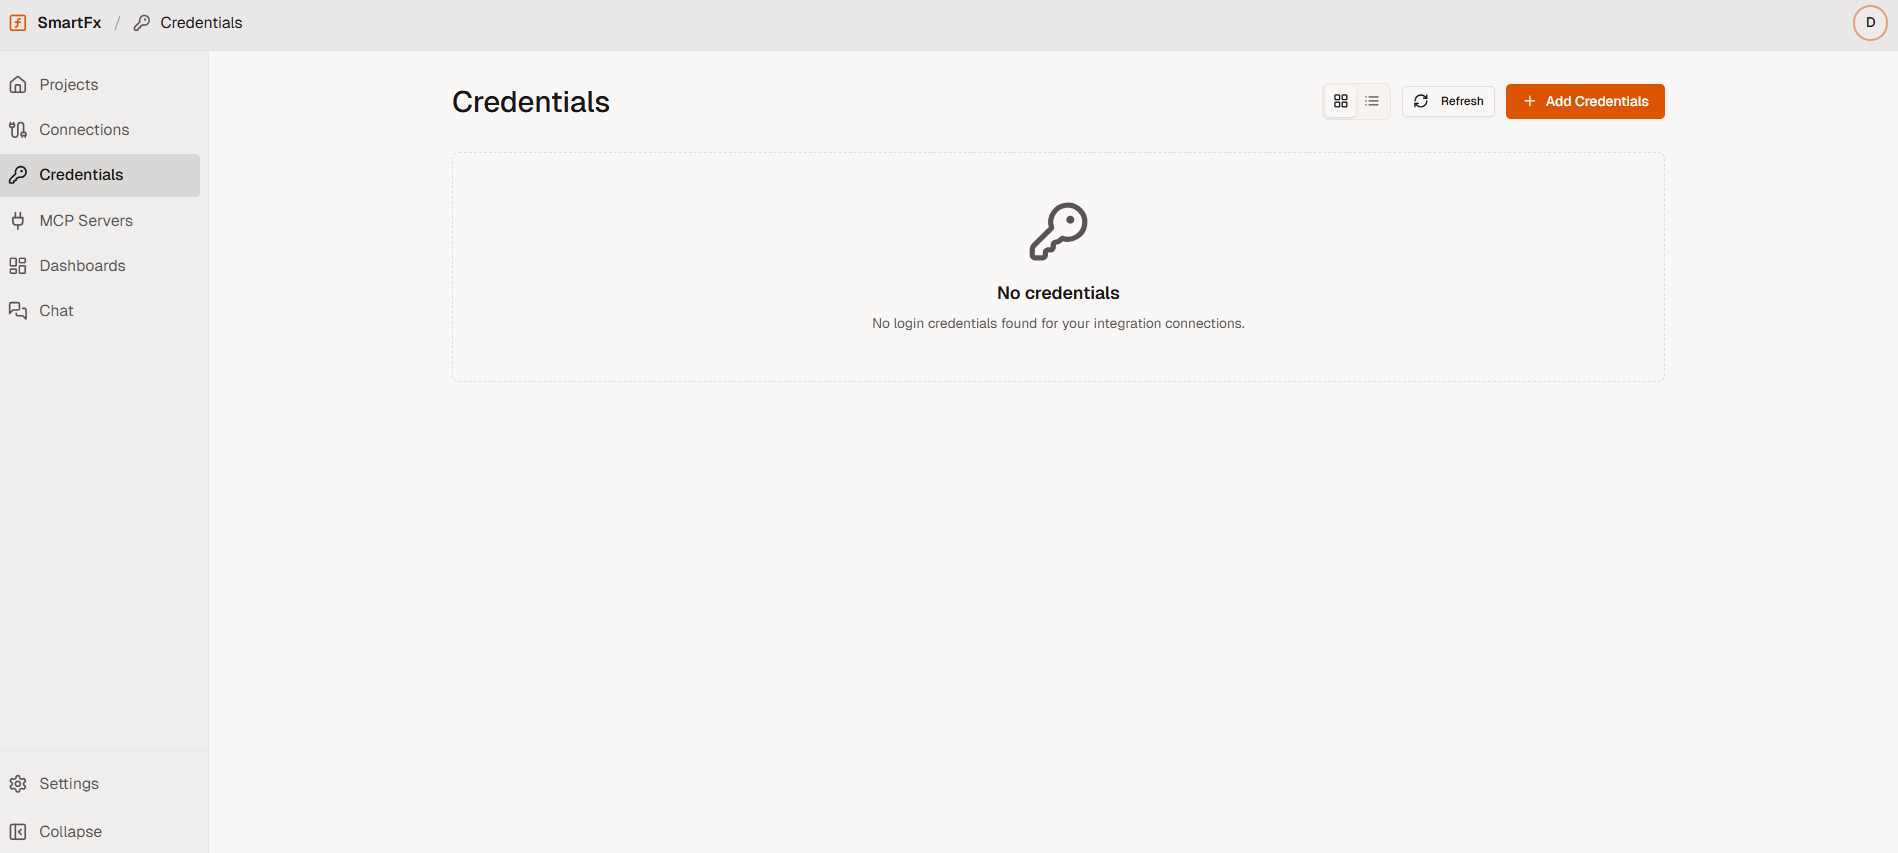
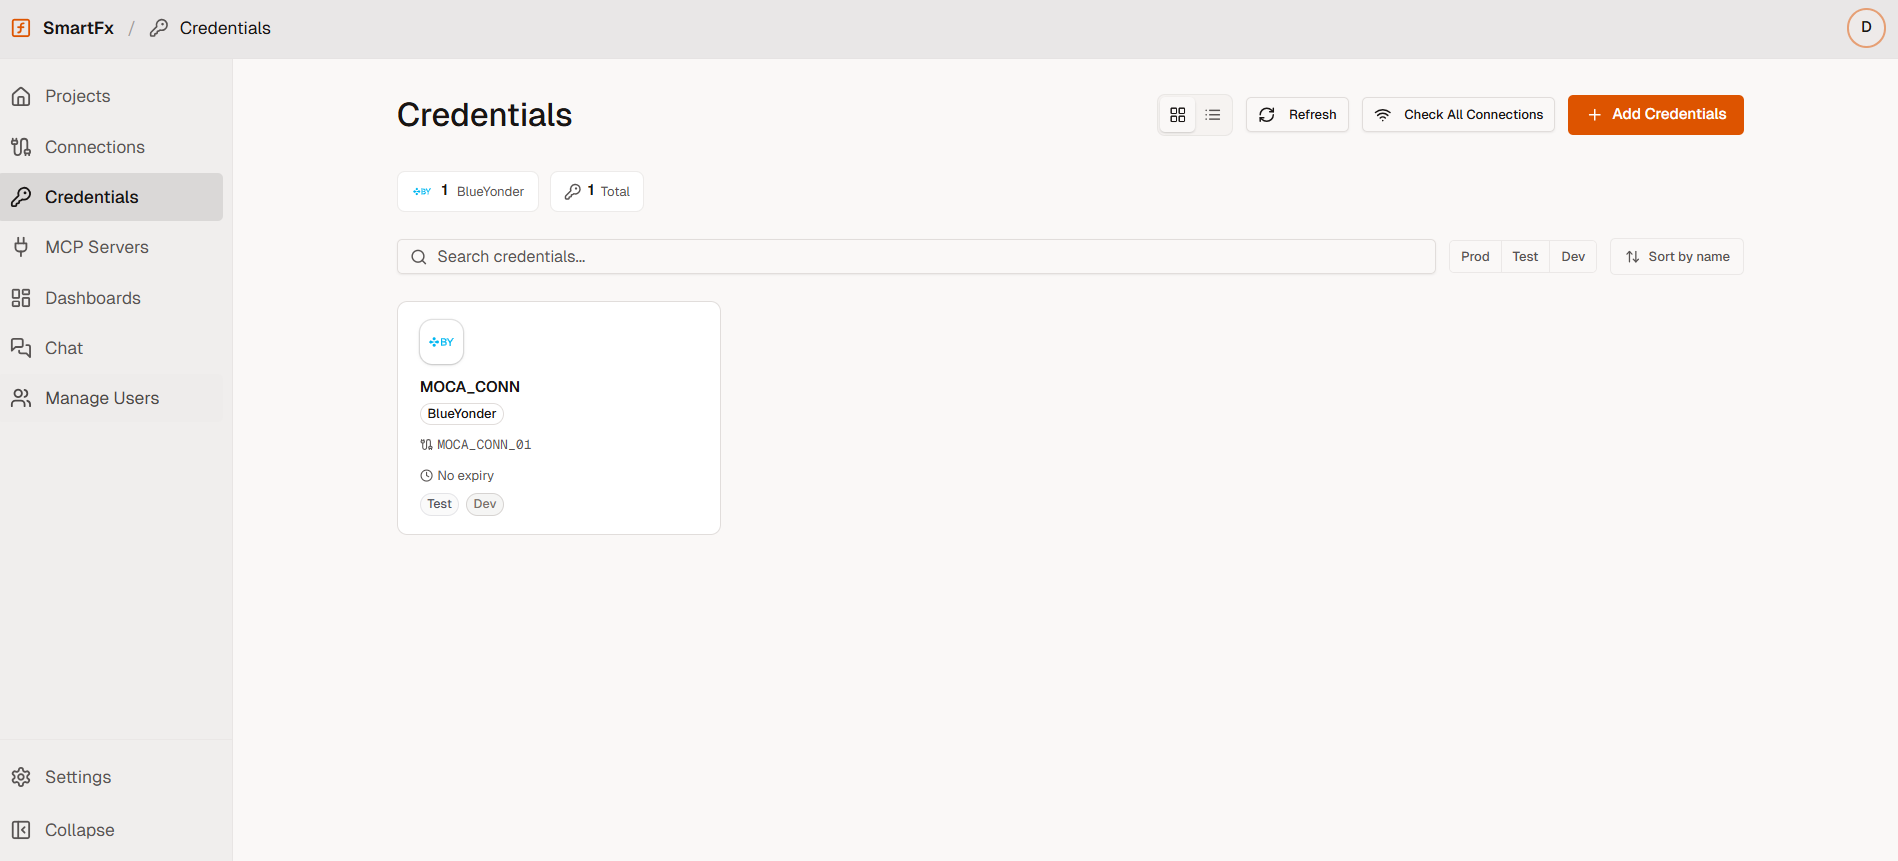
updated changes

diff --git a/docs/concepts.md b/docs/concepts.md
@@ -178,8 +178,7 @@ Smart AI is designed to serve every stakeholder in the enterprise — from busin
 |---|---|---|
 | **Admins** | Build and manage Smart Functions, Manage users, configure enterprise connections, control integrations, and govern how Smart AI securely interacts with enterprise systems. | Smart AI
 | **Power Users** | Define new functions in Smart FX Studio. Write function metadata, implement queries, tag domains, and validate accuracy using Eval. | Smart FX Studio |
-| **Users** | Just ask your question in Smart Chat and instantly get answers, charts, and automated reports — no technical knowledge needed. | Smart Chat |
-
+| **Users** | Designed for business users to interact directly with AI and execute their business operations through simple conversations. | Smart Chat |
 
 ---
 

diff --git a/docs/getting-started.md b/docs/getting-started.md
@@ -324,6 +324,8 @@ This mode is useful during development when validating that functions behave cor
 
 Use **Live Test** mode to interact with the LLM in real time using your connected functions.
 
+> It creates a temporary MCP server and exposes your functions/data to the LLM for testing within an isolated session.
+
 This simulates a real production conversation where the model automatically selects and invokes the appropriate function based on natural language queries.
 
 For example, you can ask:
